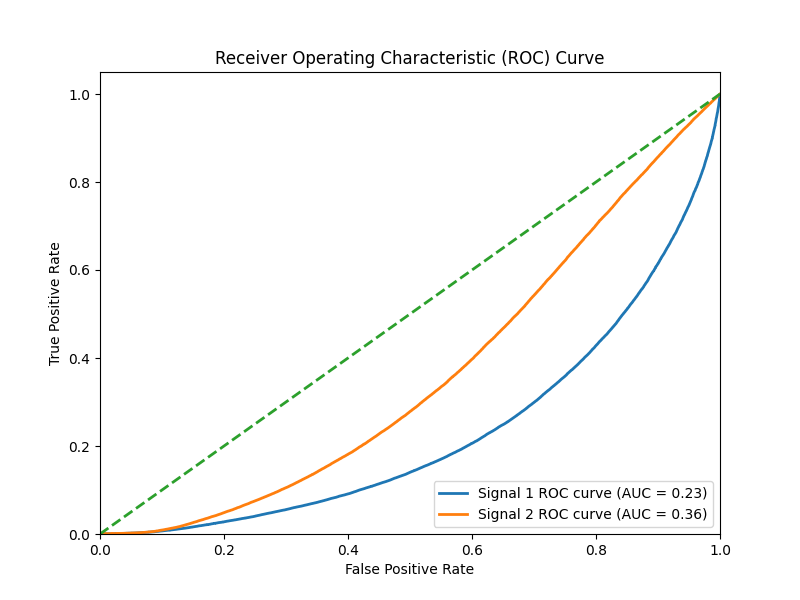
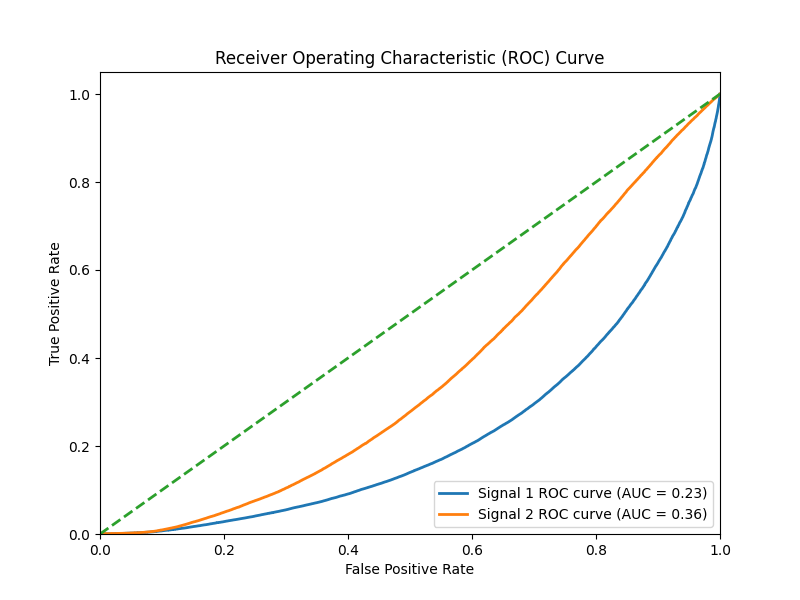
Testing with minmax scaling and 21, 14 layer dimensions

diff --git a/test.py b/test.py
@@ -129,16 +129,16 @@ loss_sig1_total = loss_sig1.sum(axis=1) / 42
 loss_sig2_total = loss_sig2.sum(axis=1) / 42
 
 # Plot Total Reconstruction Error
-nbins = 20
-fig, axes = plt.subplots(figsize=(8,6))
-axes.hist([loss_bkg_total], nbins, range=(0, 0.02), density=0, histtype='step', label=['Background'], stacked=True, alpha=1)
-axes.hist([loss_sig1_total], nbins, range=(0, 0.02), density=0, histtype='step', label=['Signal 1'], stacked=True, alpha=0.9)
-axes.hist([loss_sig2_total], nbins, range=(0, 0.02), density=0, histtype='step', label=['Signal 2'], stacked=True, alpha=0.9)
-axes.set_xlabel(r"Reconstruction Error")
-axes.set_ylabel("Events")
-axes.set_xlim(0, 0.02)
-axes.legend(loc='upper right')
-fig.savefig(f"figs/testing/reconstruction_error_{scale}_{mid_dim}_{latent_dim}.png")
+# nbins = 20
+# fig, axes = plt.subplots(figsize=(8,6))
+# axes.hist([loss_bkg_total], nbins, range=(0, 0.02), density=0, histtype='step', label=['Background'], stacked=True, alpha=1)
+# axes.hist([loss_sig1_total], nbins, range=(0, 0.02), density=0, histtype='step', label=['Signal 1'], stacked=True, alpha=0.9)
+# axes.hist([loss_sig2_total], nbins, range=(0, 0.02), density=0, histtype='step', label=['Signal 2'], stacked=True, alpha=0.9)
+# axes.set_xlabel(r"Reconstruction Error")
+# axes.set_ylabel("Events")
+# axes.set_xlim(0, 0.02)
+# axes.legend(loc='upper right')
+# fig.savefig(f"figs/testing/reconstruction_error_{scale}_{mid_dim}_{latent_dim}.png")
 
 ############################################ ROC Curve ##############################################
 
@@ -175,8 +175,8 @@ fig.savefig(f"figs/testing/ROC_{scale}_{mid_dim}_{latent_dim}.png")
 
 ############################################ Normalised Mass Distribution  ##############################################
 
-bkg_tensor = torch.from_numpy(scaler.transform(bkg[selection])).float().to(device)
-# bkg_tensor = torch.from_numpy(bkg_scaled.values).float().to(device)
+# bkg_tensor = torch.from_numpy(scaler.transform(bkg[selection])).float().to(device)
+bkg_tensor = torch.from_numpy(bkg_scaled.values).float().to(device)
 
 # Predictions
 with torch.no_grad(): # no need to compute gradients here
